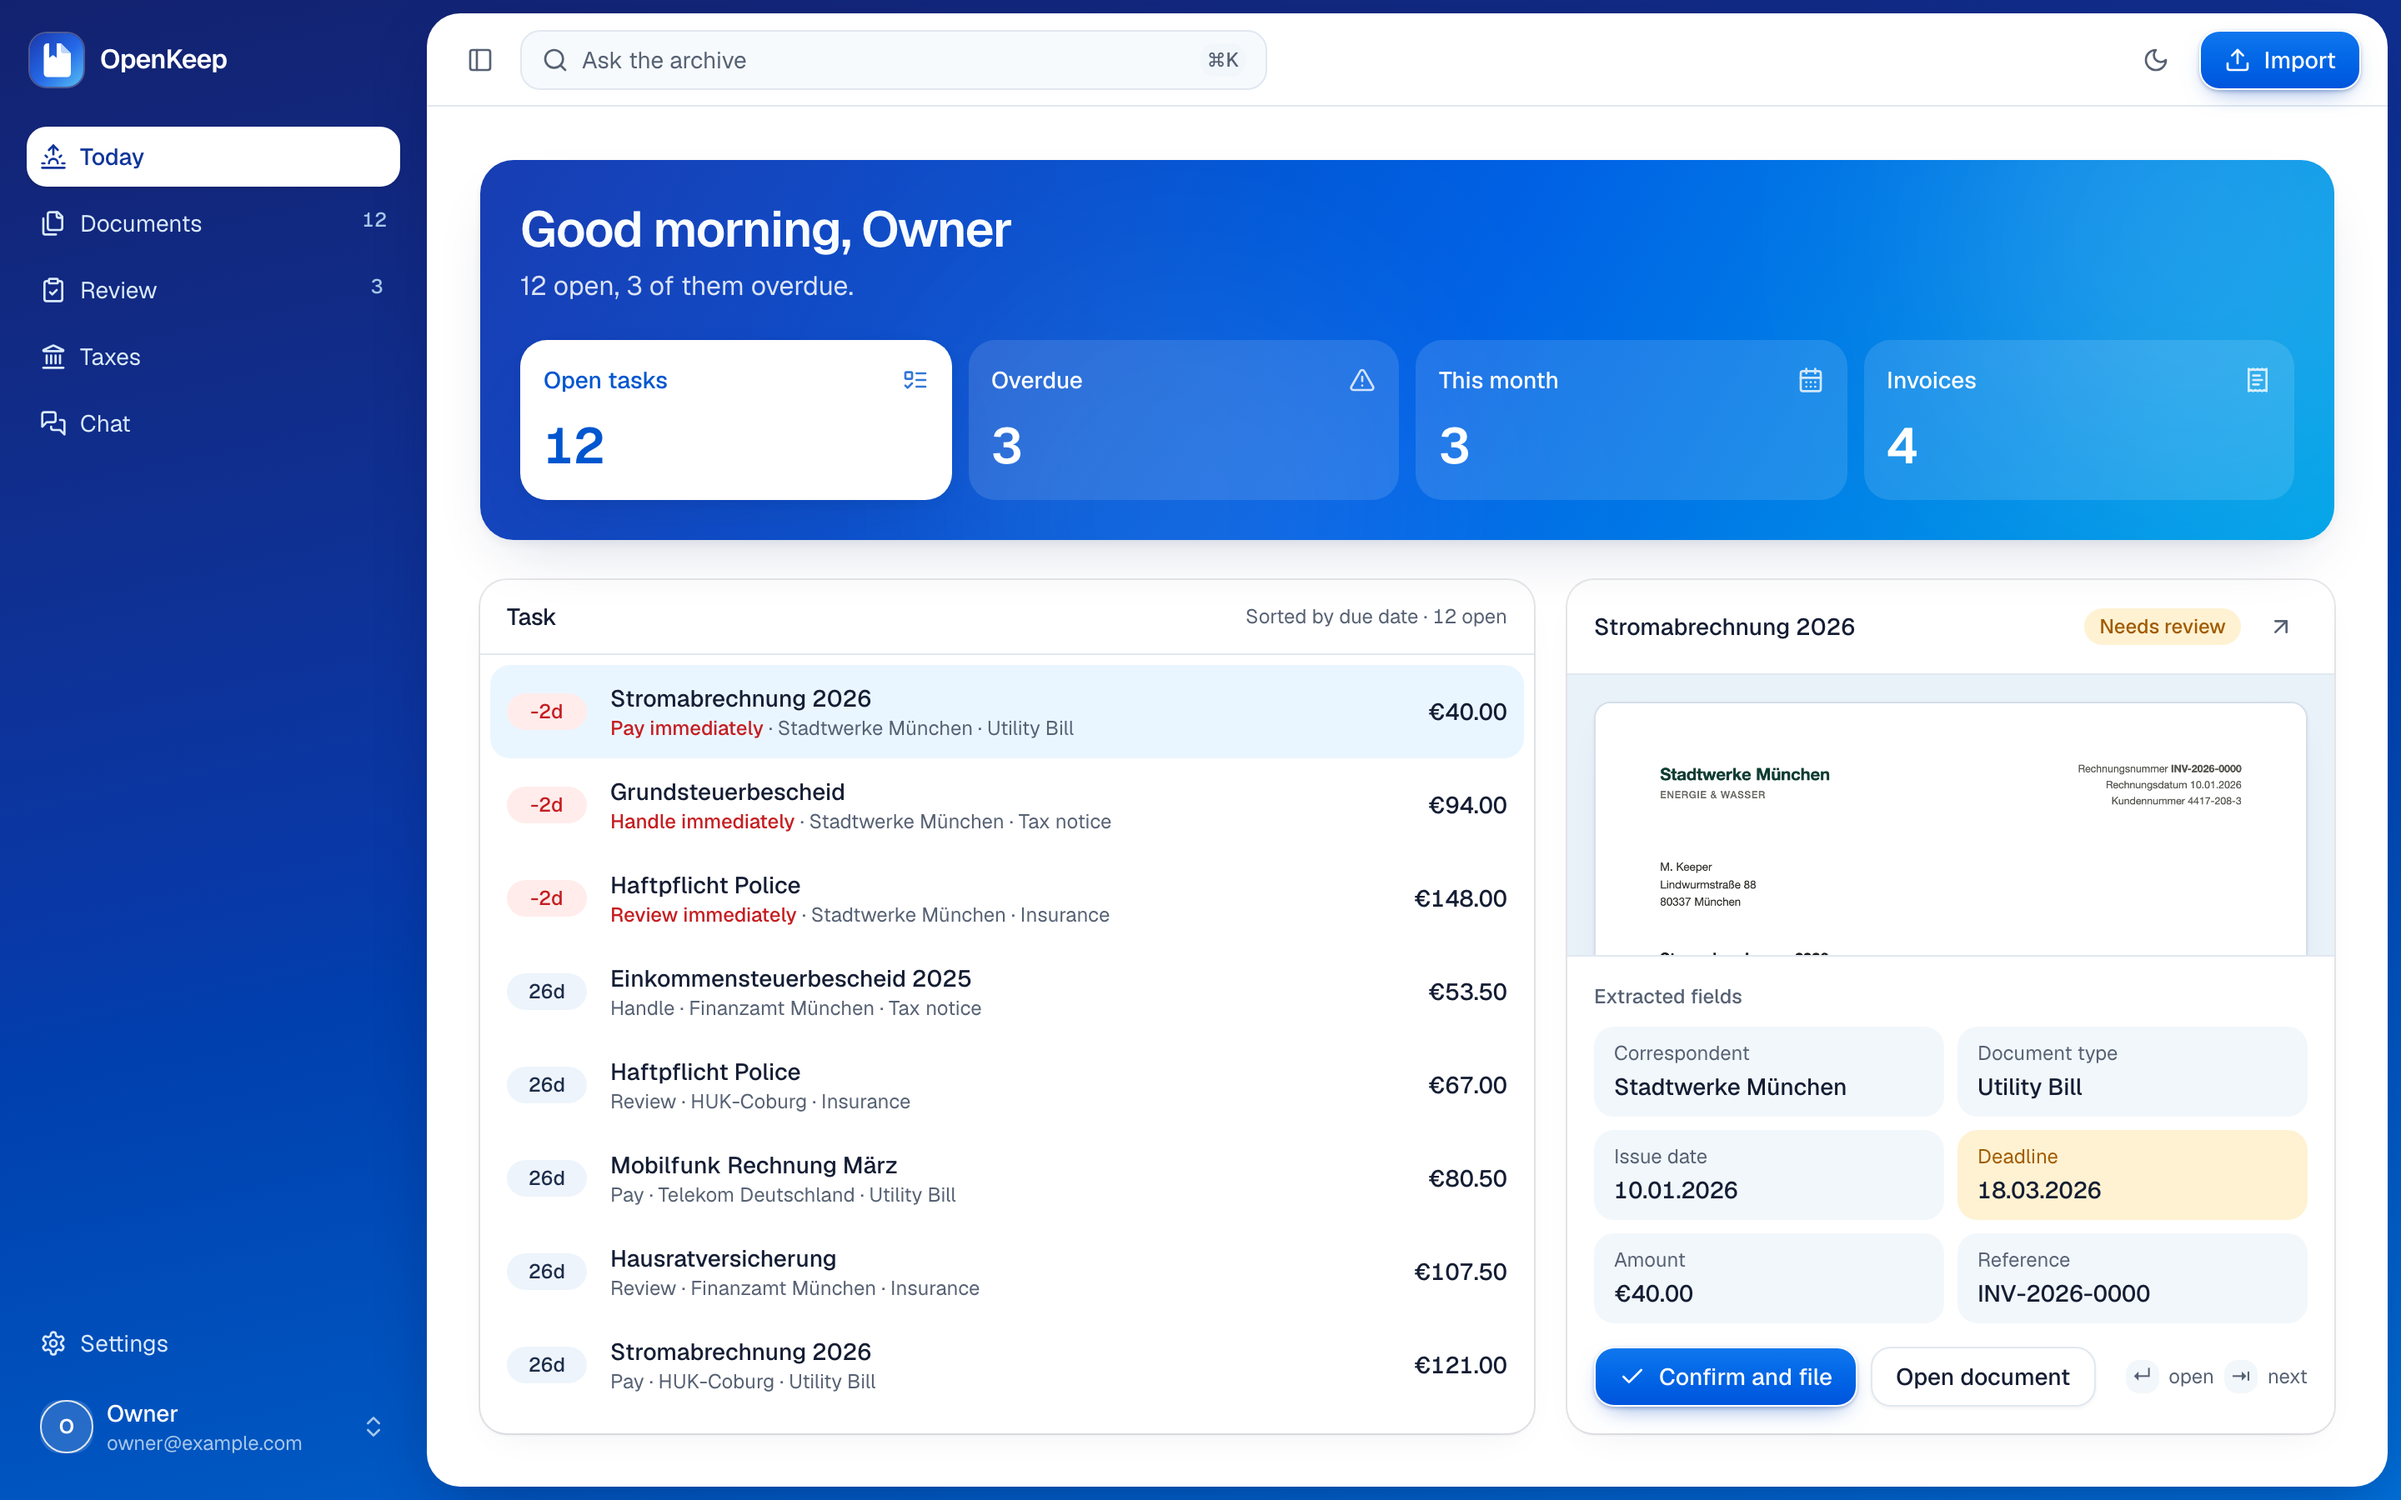
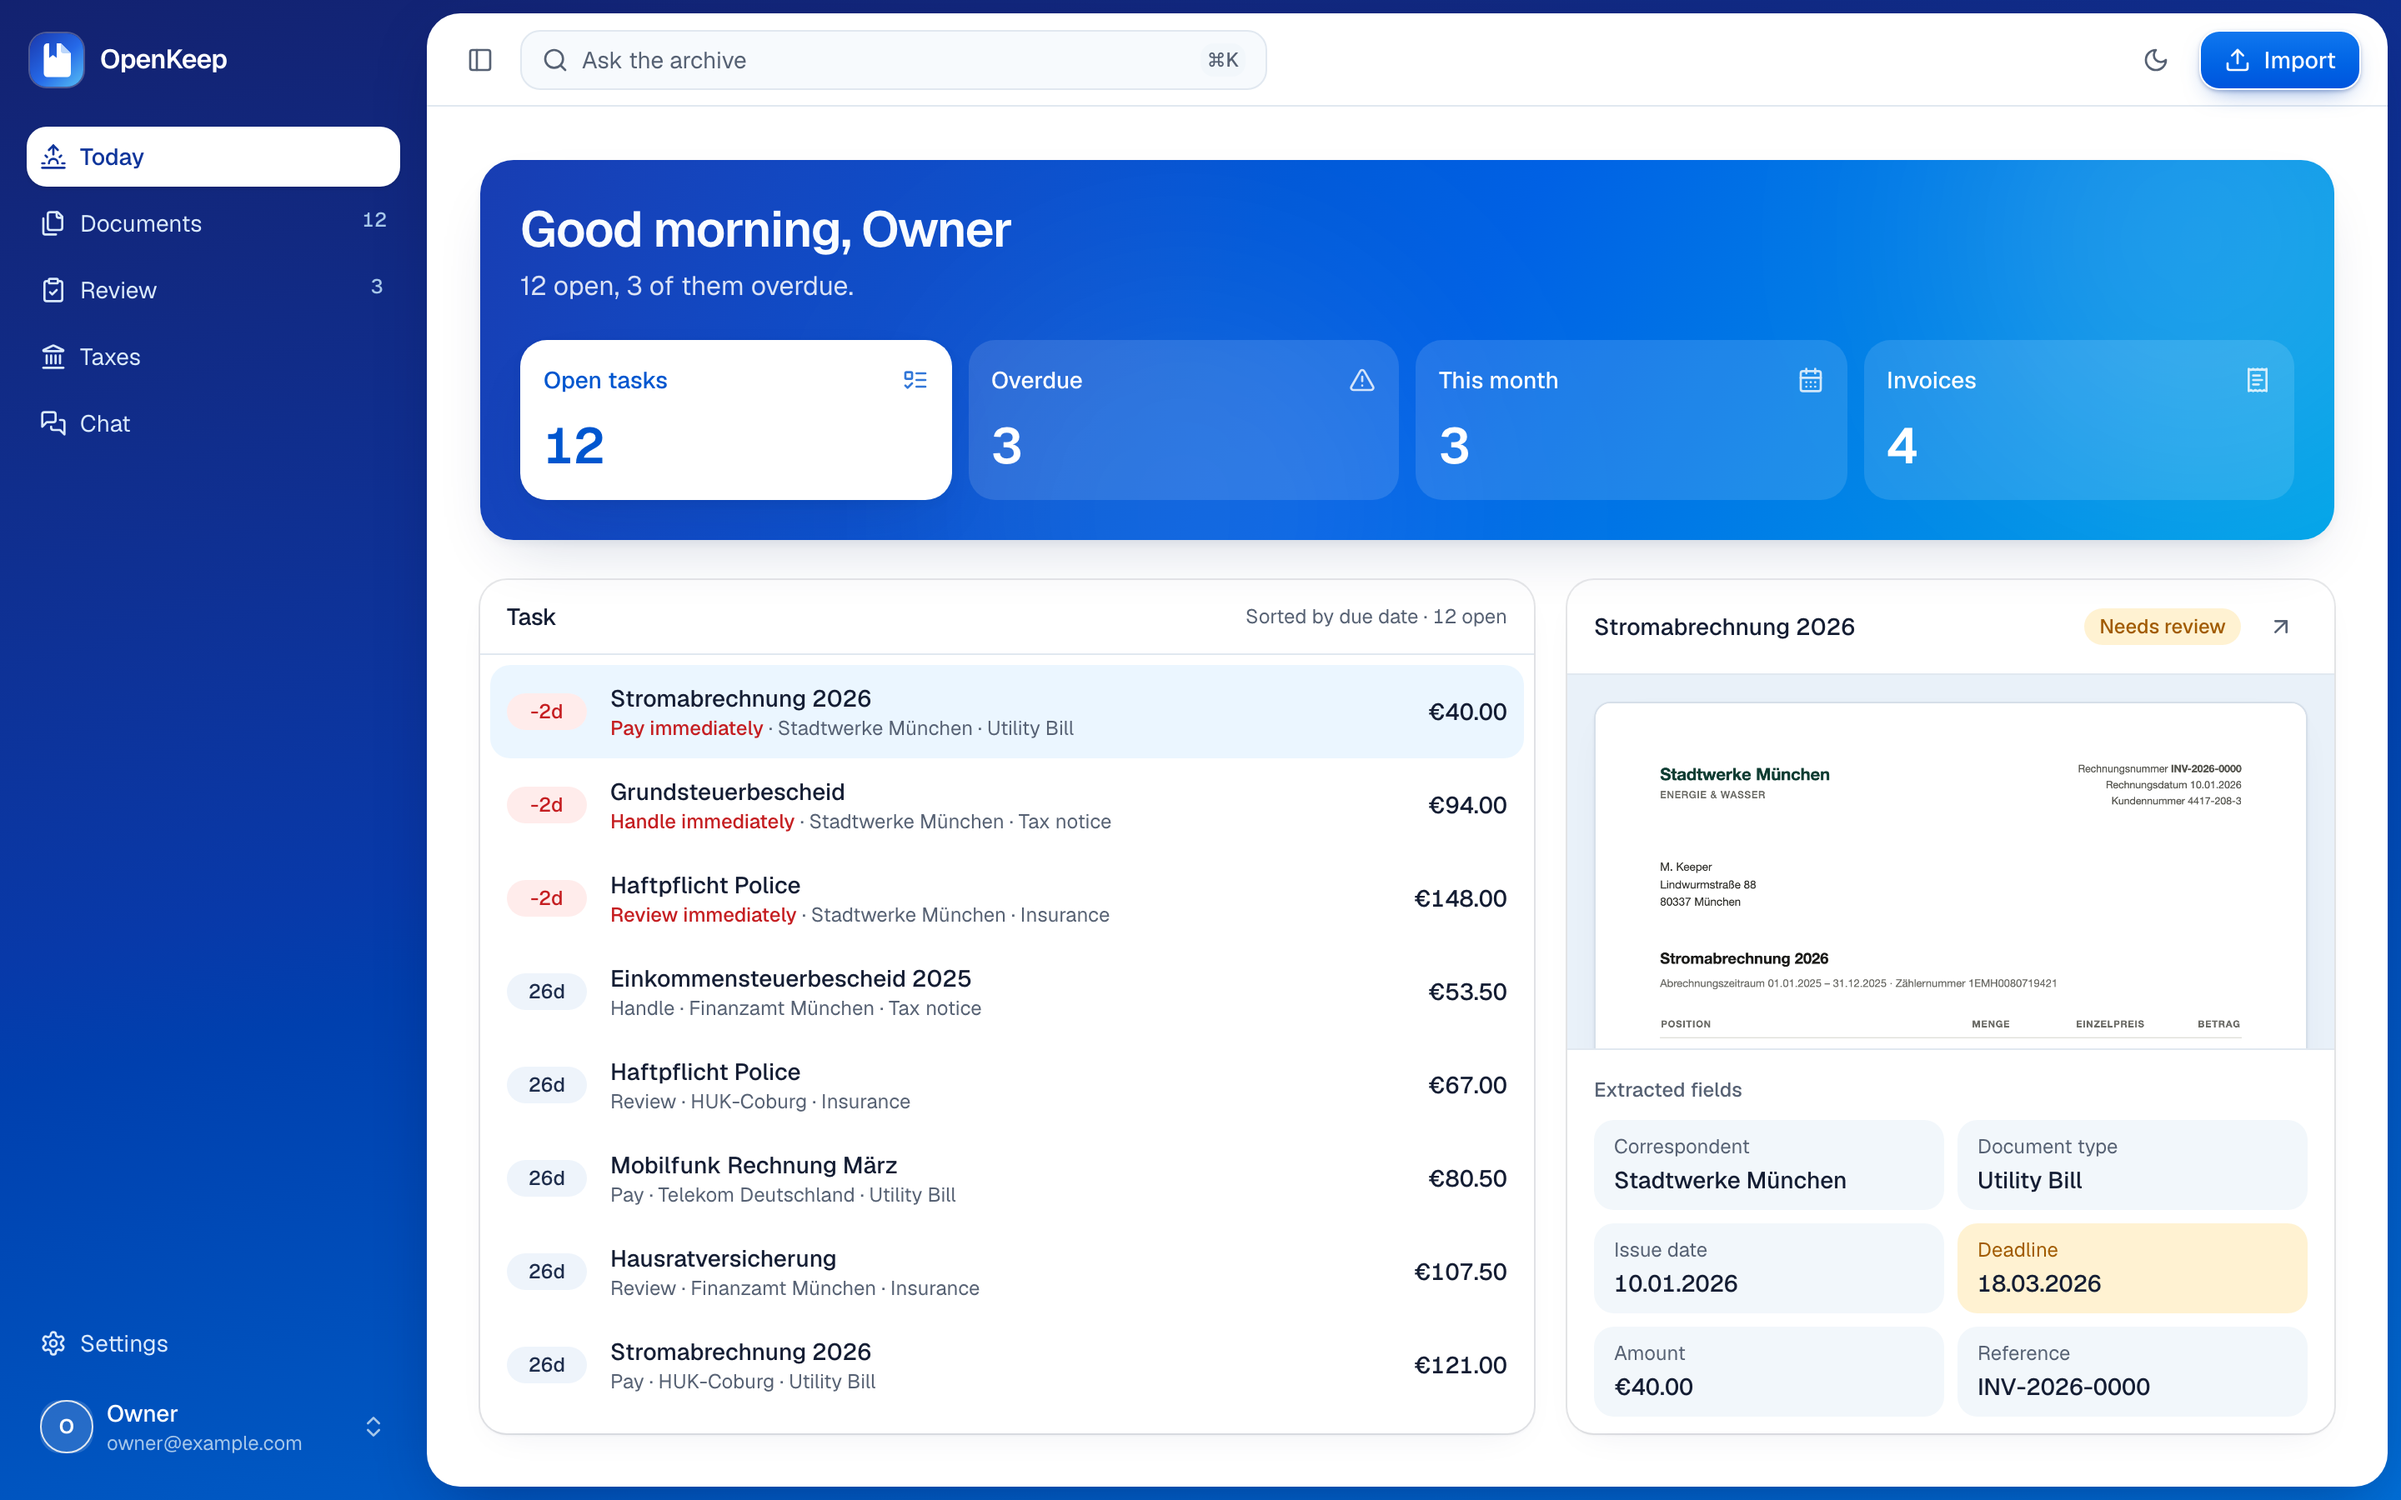
fix(web): repair what the audit of the redesign found
- Filter inputs keep focus: the sidebar stays mounted across filter changes.
- Today's confirm action stays reachable on short windows.
- The empty chat's history button no longer covers the sidebar toggle on phones.
- Date sorting stays reachable when the column folds away.
- The merge dialog can no longer act on a target it does not show.
- Focus returns to the row after a taxonomy dialog, and to the composer after the
  first question; recent questions are back on the empty chat.

Changed region(s): [[0.6562, 0.6222, 0.9688, 0.9644]]

diff --git a/apps/web/src/components/explorer/document-table.tsx b/apps/web/src/components/explorer/document-table.tsx
@@ -1,3 +1,4 @@
+import type { ReactNode } from "react";
 import { useCallback, useRef } from "react";
 import { ArrowDown, ArrowUp, ArrowUpRight, ChevronsUpDown, FileSearch } from "lucide-react";
 import type { Document } from "@openkeep/types";
@@ -53,6 +54,44 @@ export function formatRowDate(value: string | null | undefined): string {
   });
 }
 
+function SortButton({
+  label,
+  field,
+  sort,
+  direction,
+  onSortChange,
+  className,
+}: {
+  label: string;
+  field: SortField;
+  sort: SortField;
+  direction: "asc" | "desc";
+  onSortChange: (sort: SortField, direction: "asc" | "desc") => void;
+  className?: string;
+}) {
+  const active = sort === field;
+  const SortIcon = !active ? ChevronsUpDown : direction === "desc" ? ArrowDown : ArrowUp;
+  return (
+    <button
+      type="button"
+      className={cn(
+        "group/sort inline-flex items-center gap-1 rounded-sm transition-colors outline-none hover:text-foreground focus-visible:ring-3 focus-visible:ring-ring/50",
+        active && "text-foreground",
+        className,
+      )}
+      onClick={() => onSortChange(field, active && direction === "desc" ? "asc" : "desc")}
+    >
+      {label}
+      <SortIcon
+        className={cn(
+          "size-3.5",
+          !active && "opacity-0 transition-opacity group-hover/sort:opacity-60 group-focus-visible/sort:opacity-60",
+        )}
+      />
+    </button>
+  );
+}
+
 function SortableHead({
   label,
   className,
@@ -60,6 +99,7 @@ function SortableHead({
   sort,
   direction,
   onSortChange,
+  children,
 }: {
   label: string;
   className?: string;
@@ -67,30 +107,23 @@ function SortableHead({
   sort: SortField;
   direction: "asc" | "desc";
   onSortChange: (sort: SortField, direction: "asc" | "desc") => void;
+  children?: ReactNode;
 }) {
-  const active = sort === field;
-  const SortIcon = !active ? ChevronsUpDown : direction === "desc" ? ArrowDown : ArrowUp;
   return (
     <TableHead
       className={className}
-      aria-sort={active ? (direction === "desc" ? "descending" : "ascending") : undefined}
+      aria-sort={
+        sort === field ? (direction === "desc" ? "descending" : "ascending") : undefined
+      }
     >
-      <button
-        type="button"
-        className={cn(
-          "group/sort inline-flex items-center gap-1 rounded-sm transition-colors outline-none hover:text-foreground focus-visible:ring-3 focus-visible:ring-ring/50",
-          active && "text-foreground",
-        )}
-        onClick={() => onSortChange(field, active && direction === "desc" ? "asc" : "desc")}
-      >
-        {label}
-        <SortIcon
-          className={cn(
-            "size-3.5",
-            !active && "opacity-0 transition-opacity group-hover/sort:opacity-60 group-focus-visible/sort:opacity-60",
-          )}
-        />
-      </button>
+      <SortButton
+        label={label}
+        field={field}
+        sort={sort}
+        direction={direction}
+        onSortChange={onSortChange}
+      />
+      {children}
     </TableHead>
   );
 }
@@ -187,7 +220,17 @@ export function DocumentTable({
               sort={sort}
               direction={direction}
               onSortChange={onSortChange}
-            />
+            >
+              {/* The date column folds away on a narrow table; its sort must not. */}
+              <SortButton
+                label={t("documents.date")}
+                field="issueDate"
+                sort={sort}
+                direction={direction}
+                onSortChange={onSortChange}
+                className="ml-4 @md:hidden"
+              />
+            </SortableHead>
             <TableHead className={cn(headClassName, typeColumn)}>
               {t("today.documentType")}
             </TableHead>

diff --git a/apps/web/src/components/settings/taxonomy-section.tsx b/apps/web/src/components/settings/taxonomy-section.tsx
@@ -451,7 +451,19 @@ export function TaxonomyManagementSection() {
     setRowDialog(null);
   };
 
+  // The menu item that opened a dialog is gone by the time it closes, so focus
+  // goes back to that row's menu button instead of falling to the page body.
+  const dialogRowId = useRef<string | null>(null);
+  const returnFocusToRow = (event: Event) => {
+    event.preventDefault();
+    if (!dialogRowId.current) return;
+    document
+      .querySelector<HTMLElement>(`[data-row-menu="${CSS.escape(dialogRowId.current)}"]`)
+      ?.focus();
+  };
+
   const openRowDialog = (dialog: RowDialog) => {
+    dialogRowId.current = dialog.row.id;
     setDialogName(dialog.kind === "rename" ? dialog.row.name : "");
     setDialogTargetId(dialog.kind === "merge" ? (dialog.targetId ?? "") : "");
     setDialogTargetQuery("");
@@ -487,6 +499,9 @@ export function TaxonomyManagementSection() {
           dialogTargetNeedle === "" ||
           row.name.toLowerCase().includes(dialogTargetNeedle)),
     )
+    // The selected target stays first, so the cap can never leave the Select
+    // blank while Merge still acts on it.
+    .sort((a, b) => Number(b.id === dialogTargetId) - Number(a.id === dialogTargetId))
     .slice(0, 50);
 
   const sortIcon = (key: SortKey) =>
@@ -892,6 +907,7 @@ export function TaxonomyManagementSection() {
                               <Button
                                 variant="ghost"
                                 size="icon-sm"
+                                data-row-menu={row.id}
                                 aria-label={copy.actionsFor(row.name)}
                                 className="text-muted-foreground"
                               >
@@ -954,7 +970,7 @@ export function TaxonomyManagementSection() {
           if (!open) setRowDialog(null);
         }}
       >
-        <DialogContent>
+        <DialogContent onCloseAutoFocus={returnFocusToRow}>
           <DialogHeader>
             <DialogTitle>{copy.renameTitle(rowDialog?.row.name ?? "")}</DialogTitle>
             <DialogDescription>{copy.renameDescription}</DialogDescription>
@@ -1007,7 +1023,7 @@ export function TaxonomyManagementSection() {
           if (!open) setRowDialog(null);
         }}
       >
-        <DialogContent>
+        <DialogContent onCloseAutoFocus={returnFocusToRow}>
           <DialogHeader>
             <DialogTitle>{copy.mergeTitle(rowDialog?.row.name ?? "")}</DialogTitle>
             <DialogDescription>{copy.mergeDescription}</DialogDescription>
@@ -1076,7 +1092,7 @@ export function TaxonomyManagementSection() {
           if (!open) setRowDialog(null);
         }}
       >
-        <AlertDialogContent>
+        <AlertDialogContent onCloseAutoFocus={returnFocusToRow}>
           <AlertDialogHeader>
             <AlertDialogTitle>{copy.deleteTitle(rowDialog?.row.name ?? "")}</AlertDialogTitle>
             <AlertDialogDescription>

diff --git a/apps/web/src/routes/search.tsx b/apps/web/src/routes/search.tsx
@@ -137,6 +137,10 @@ function ChatPage() {
   const [historyOpen, setHistoryOpen] = useState(false);
   const isWide = useMediaQuery("(min-width: 1280px)");
   const composerRef = useRef<HTMLFormElement>(null);
+  const composerInputRef = useRef<HTMLTextAreaElement>(null);
+  // The composer moves when the first question leaves the empty state, which
+  // remounts it. Whoever was typing keeps typing.
+  const refocusComposer = useRef(false);
   const startedFromParam = useRef<string | null>(null);
 
   const copy =
@@ -477,11 +481,14 @@ function ChatPage() {
       className="w-full"
       onSubmit={(event) => {
         event.preventDefault();
-        if (!offlineReadOnly) ask(draft);
+        if (offlineReadOnly) return;
+        refocusComposer.current = true;
+        ask(draft);
       }}
     >
       <InputGroup className="h-auto rounded-2xl bg-card shadow-raised has-[textarea:focus-visible]:border-ring has-[textarea:focus-visible]:ring-3 has-[textarea:focus-visible]:ring-ring/30 dark:bg-card">
         <InputGroupTextarea
+          ref={composerInputRef}
           value={draft}
           onChange={(event) => setDraft(event.target.value)}
           onKeyDown={(event) => {
@@ -537,6 +544,12 @@ function ChatPage() {
 
   const isEmpty = !active && !pendingQuestion;
 
+  useEffect(() => {
+    if (!refocusComposer.current) return;
+    refocusComposer.current = false;
+    composerInputRef.current?.focus();
+  }, [isEmpty]);
+
   return (
     <div className="flex h-full min-h-0">
       {/* Conversations */}
@@ -590,7 +603,7 @@ function ChatPage() {
         ) : null}
 
         {isEmpty ? (
-          <div className="flex min-h-0 flex-1 flex-col items-center justify-center overflow-auto bg-gradient-wash p-4 md:p-8">
+          <div className="relative flex min-h-0 flex-1 flex-col items-center justify-center overflow-auto bg-gradient-wash p-4 md:p-8">
             <Button
               variant="ghost"
               size="icon-sm"
@@ -611,7 +624,9 @@ function ChatPage() {
                 <p className="max-w-md text-muted-foreground">{copy.emptyBody}</p>
               </div>
               {composer}
-              {suggestionRow(copy.starters)}
+              {suggestionRow([
+                ...new Set([...followUps.map((entry) => entry.query), ...copy.starters]),
+              ])}
             </div>
           </div>
         ) : (

diff --git a/apps/web/src/routes/index.tsx b/apps/web/src/routes/index.tsx
@@ -242,7 +242,7 @@ function TaskPreview({ documentId }: { documentId: string }) {
   const isImage = previewQuery.data?.type.startsWith("image/");
 
   return (
-    <div className="flex h-full min-h-0 flex-col">
+    <div className="flex h-full min-h-0 flex-col overflow-auto">
       <div className="flex shrink-0 items-center gap-2 border-b px-4 py-3">
         <span className="min-w-0 flex-1 truncate font-medium">{doc?.title ?? "—"}</span>
         {needsReview ? <Badge variant="warning">{t("today.needsReview")}</Badge> : null}
@@ -258,7 +258,7 @@ function TaskPreview({ documentId }: { documentId: string }) {
       </div>
 
       {/* A scan is a scan: paper stays white, the stage around it takes the theme. */}
-      <div className="flex min-h-0 flex-1 items-start justify-center overflow-auto bg-stage p-4">
+      <div className="flex min-h-56 flex-1 items-start justify-center overflow-auto bg-stage p-4">
         {previewUrl && isImage ? (
           <img
             src={previewUrl}
@@ -511,7 +511,8 @@ function TodayPage() {
         </div>
       </GradientPanel>
 
-      <div className="grid min-h-0 flex-1 grid-cols-1 gap-5 lg:grid-cols-[minmax(0,1fr)_minmax(360px,460px)]">
+      {/* On a short window the page scrolls rather than squeezing the queue away. */}
+      <div className="grid flex-1 grid-cols-1 gap-5 lg:min-h-[480px] lg:grid-cols-[minmax(0,1fr)_minmax(360px,460px)]">
         {/* Left: what needs you */}
         <Card className="min-h-0 gap-0 py-0 shadow-card">
           <div className="flex shrink-0 items-center justify-between gap-3 border-b px-4 py-3">

diff --git a/apps/web/src/components/explorer/explorer-surface.tsx b/apps/web/src/components/explorer/explorer-surface.tsx
@@ -1,5 +1,5 @@
 import { useEffect, useMemo, useState } from "react";
-import { useMutation, useQuery, useQueryClient } from "@tanstack/react-query";
+import { useMutation, useQuery, useQueryClient, keepPreviousData } from "@tanstack/react-query";
 import {
   CalendarRange,
   Download,
@@ -134,6 +134,9 @@ export function ExplorerSurface({
     // do not overwrite each other in the cache.
     queryKey: ["documents", "facets", search],
     queryFn: () => fetchExplorerFacets(search),
+    // Every filter change is a new key. Holding the last counts keeps the sidebar
+    // mounted, so the input being typed in does not lose focus to a skeleton.
+    placeholderData: keepPreviousData,
   });
   const documentsQuery = useQuery({
     queryKey: ["documents", "explorer", search],
